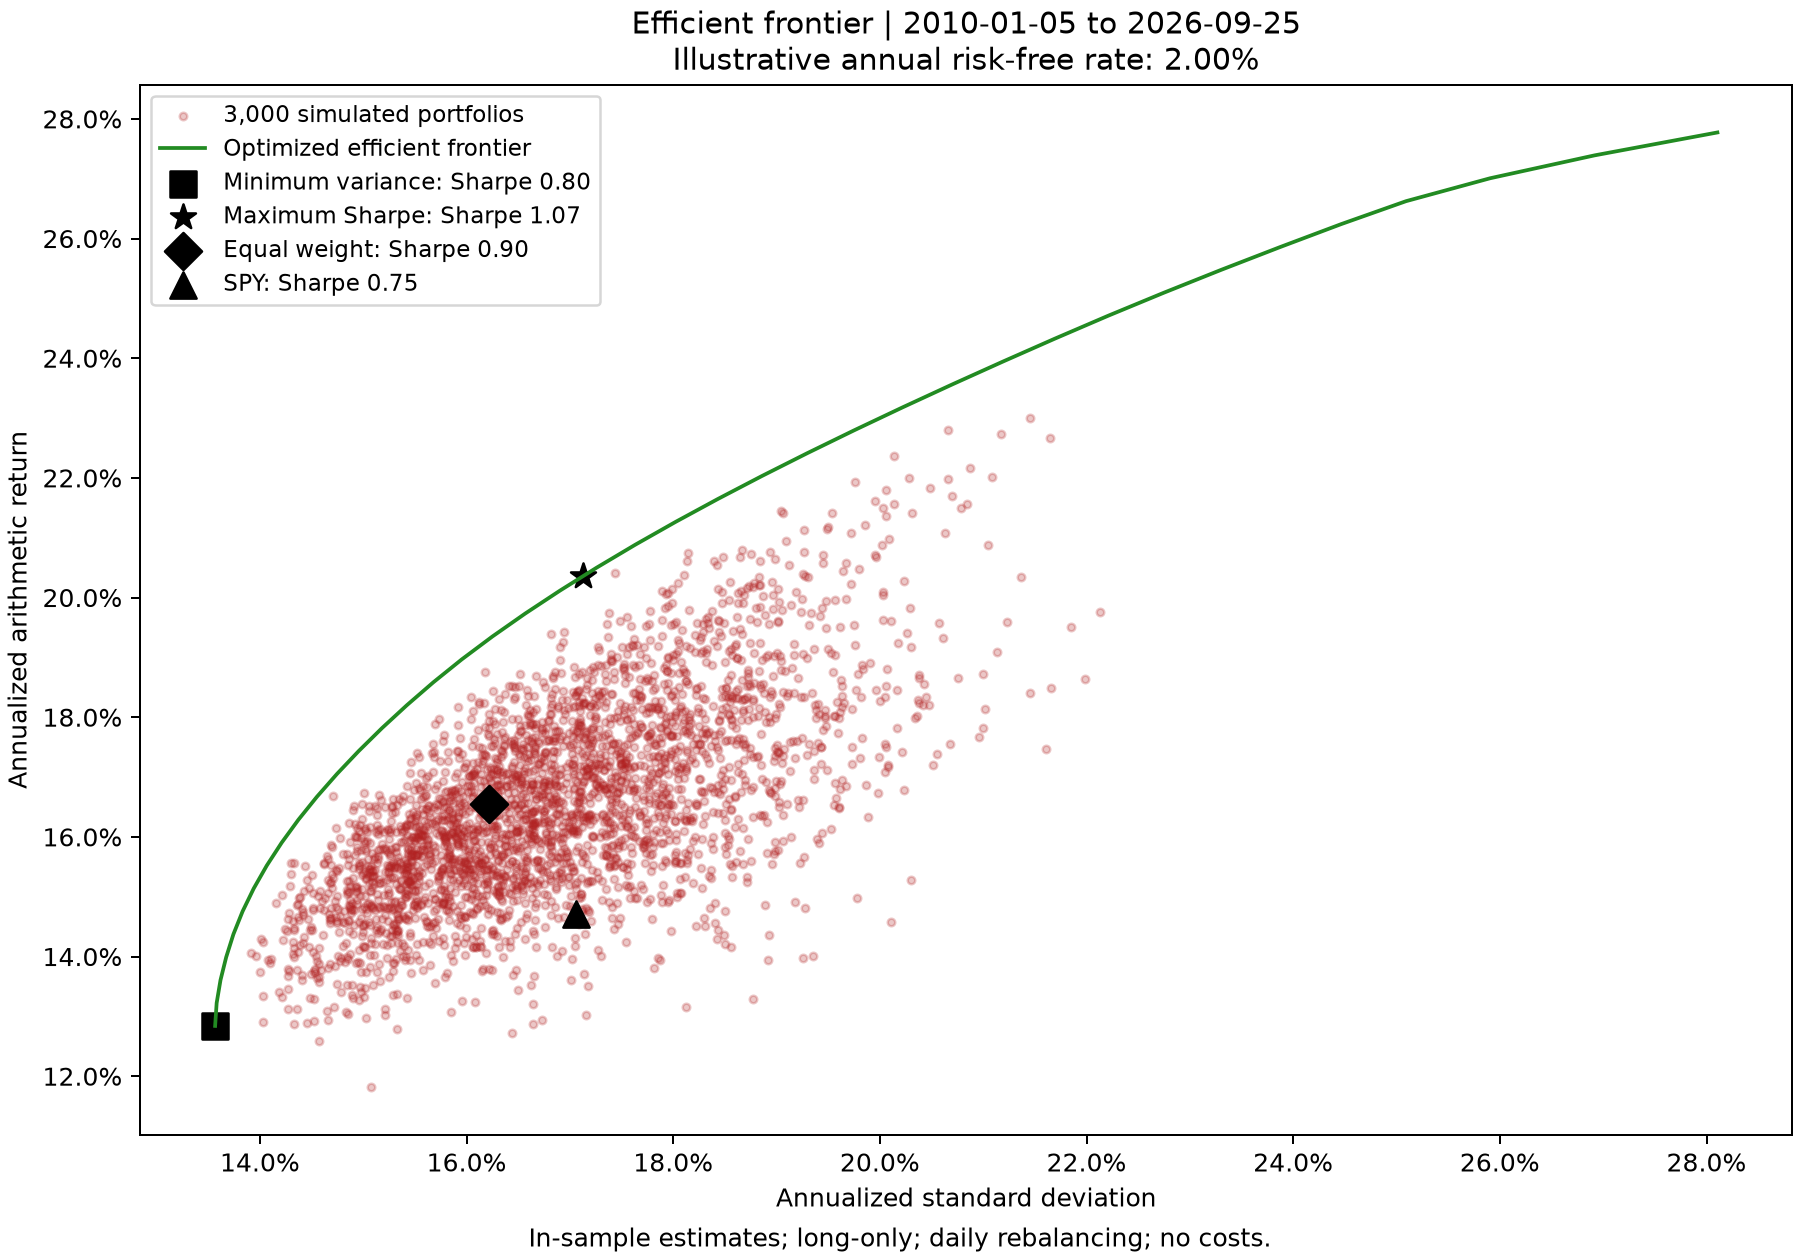
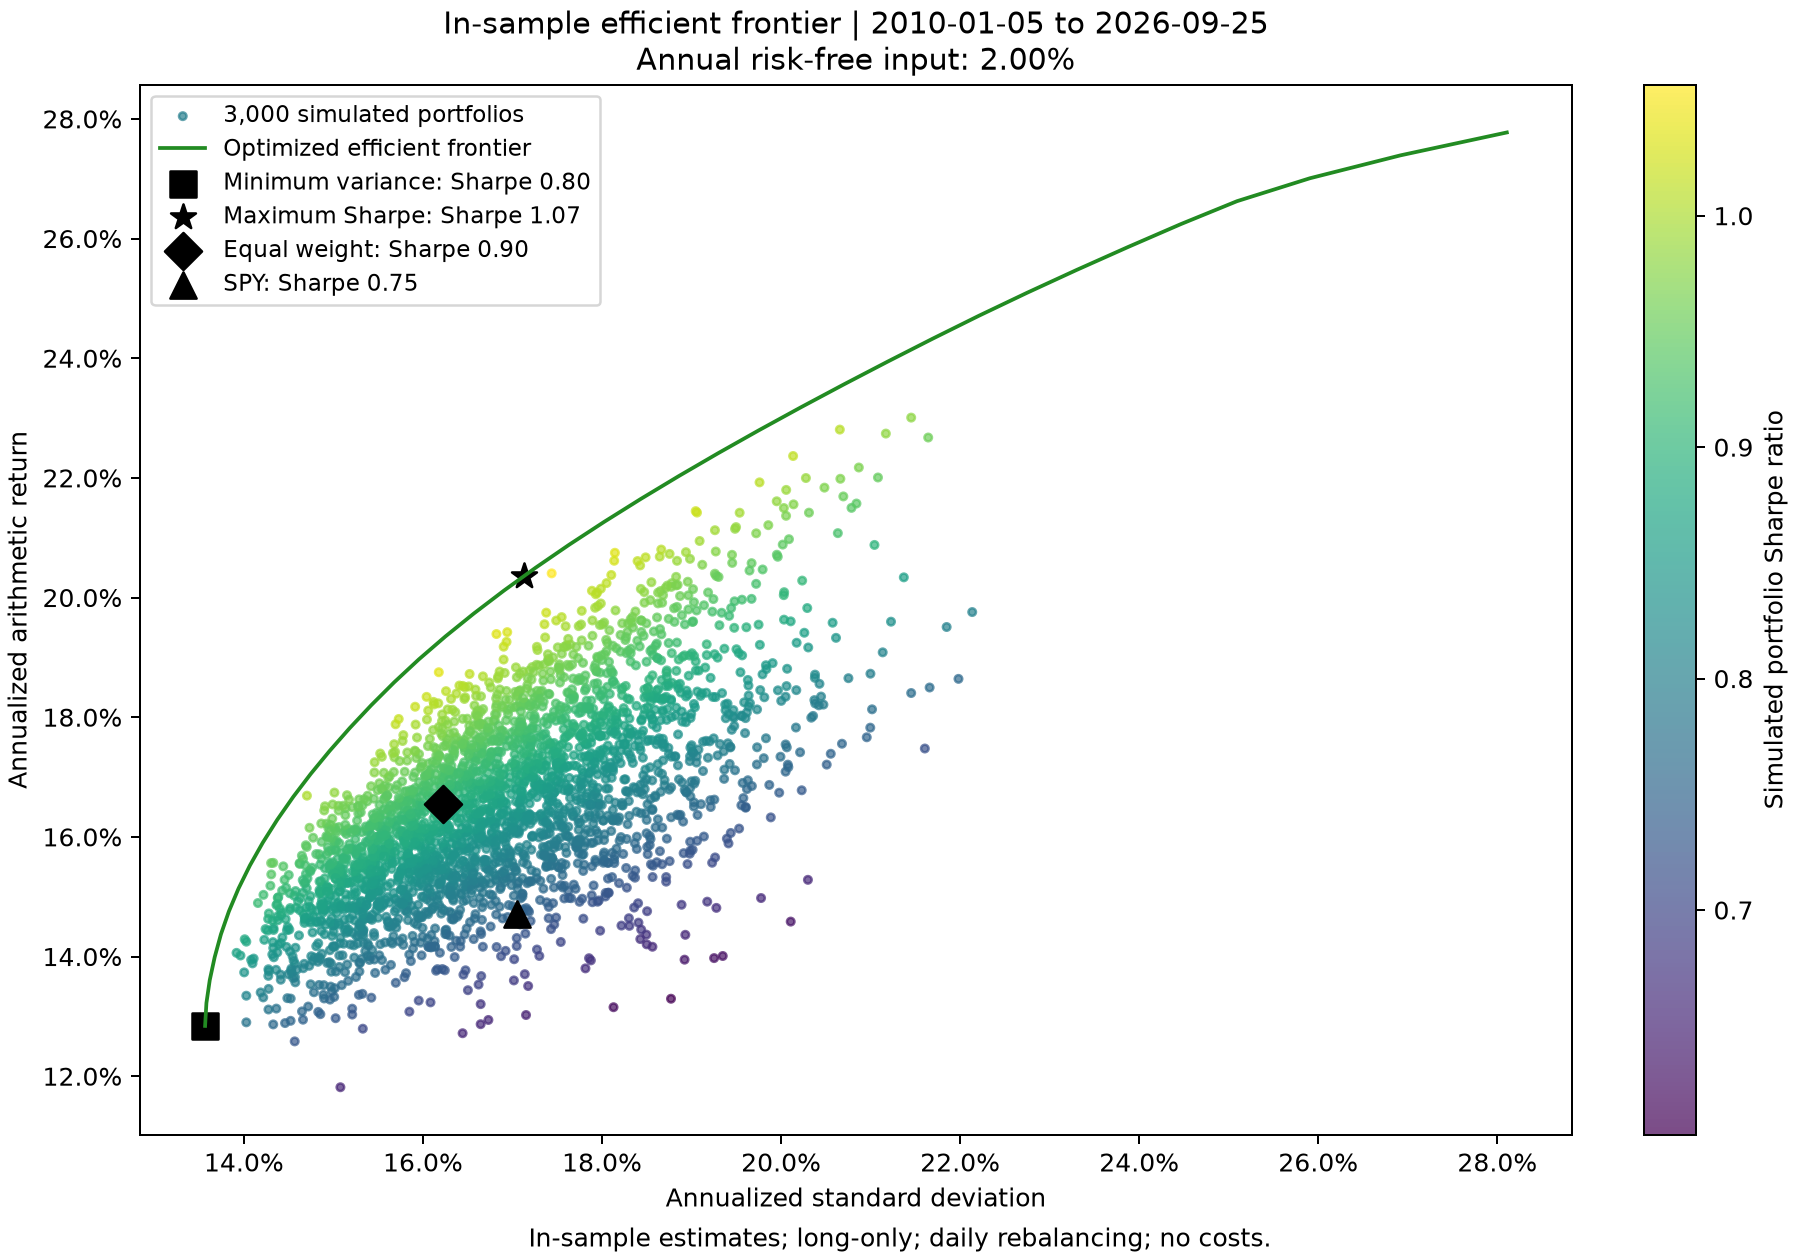
docs: explain Phase 2 diversification with a visual report

diff --git a/docs/phase2_report.md b/docs/phase2_report.md
@@ -1,0 +1,108 @@
+# Phase 2: diversification helps, but 1.07 is an in-sample estimate
+
+## Summary
+
+- The maximum estimated Sharpe is **1.073**, compared with **0.898** for equal
+  weights and **0.747** for SPY. These are historical estimates, not forecasts.
+- Only **2 of 45** asset pairs have correlation above 0.80. All pairs are positive,
+  but diversification still helps: negative correlation is not required.
+- The optimized portfolio already holds almost no index ETFs. Their inclusion
+  alone does not explain the 1.07 result.
+
+Scope: the ten approved raw assets, 4,207 daily returns from January 5, 2010 to
+September 25, 2026, and the explicitly selected **2% illustrative annual risk-free
+rate**. No new observations or strategies were added. Updated October 24, 2026.
+
+## 1. Read the frontier as a risk–return trade-off
+
+![In-sample efficient frontier, with simulated portfolios colored by Sharpe ratio](sharpe_ratio.png)
+
+Each dot is one of 3,000 allocations. Color measures Sharpe; the axes measure
+annualized standard deviation and arithmetic expected return. Black marker
+shapes distinguish the comparison portfolios. The green line is the optimized
+upper frontier, not a line joining the best random dots.
+
+| Portfolio | Arithmetic return/year | Volatility/year | Sharpe |
+|---|---:|---:|---:|
+| Minimum variance | 12.84% | 13.57% | 0.801 |
+| Maximum Sharpe | 20.36% | 17.13% | 1.073 |
+| Equal weight | 16.55% | 16.22% | 0.898 |
+| SPY | 14.72% | 17.05% | 0.747 |
+
+Within this mean–variance model, a risk-averse investor prefers the efficient
+frontier: least variance for a target return, or highest return for a given risk.
+The chosen point depends on risk tolerance. The maximum-Sharpe point is not the
+minimum-risk point. [CFA Institute: Portfolio Risk and Return](https://www.cfainstitute.org/insights/professional-learning/refresher-readings/2026/portfolio-risk-return-part-1)
+
+## 2. Correlation limits diversification; it does not eliminate it
+
+![Daily raw-asset return correlations for the approved historical sample](asset_correlation.png)
+
+| Correlation check | Result |
+|---|---:|
+| Highest pair: SPY / QQQ | 0.930 |
+| Second-highest pair: SPY / IWM | 0.882 |
+| Lowest pair: XOM / WMT | 0.213 |
+| Median of the 45 distinct pairs | 0.390 |
+| Pairs above 0.80 | 2 / 45 |
+| Negative pairs | 0 / 45 |
+
+The 0.80 level is a descriptive flag, not an exclusion rule. Shared equity
+exposure may explain the strongly correlated ETF pairs; this table does not
+establish causality. Lower correlations help all else equal, but returns,
+individual volatilities, and portfolio weights also matter.
+
+For the maximum-Sharpe weights, the weighted average individual volatility is
+23.89%, while portfolio volatility is 17.13%. The ratio is **1.395**. The former
+is also the hypothetical portfolio volatility if every pair had correlation +1,
+with weights and individual volatilities unchanged. This is a mathematical
+comparison, not another observed portfolio or a forecast.
+
+Perfectly **positively** correlated assets offer no correlation-based
+diversification benefit. That does not mean they can never be held together:
+identical return streams can share a weight without changing portfolio results.
+
+## 3. The optimizer already avoids most ETF overlap
+
+| Asset | Maximum-Sharpe weight |
+|---|---:|
+| AAPL | 36.29% |
+| JNJ | 23.36% |
+| WMT | 23.32% |
+| CAT | 15.81% |
+| JPM | 1.06% |
+| QQQ | 0.17% |
+| SPY | 0.00% |
+| IWM | 0.00% |
+| XOM | 0.00% |
+| PG | 0.00% |
+
+Weights are rounded; tiny numerical residuals appear as zero. The top three
+allocations total **82.96%**, so the portfolio remains concentrated.
+
+Because zero weights are allowed, removing an asset cannot increase the
+theoretical best in-sample Sharpe: it only narrows the available choices. The
+observed maximum depends on the whole set of estimated returns and covariances,
+the sample, the risk-free input, and the long-only constraints. Calling 1.07
+"good but not great" without a matched comparison is not a reliable conclusion.
+
+## What was corrected—and what was not
+
+The chart now directly encodes Sharpe and labels the fit as in-sample. The report
+adds measured correlations, allocations, and the qualifications above. The
+optimizer, tickers, prices, and strategies are unchanged; **1.073 remains the
+estimated maximum**, not a promised improvement or a universal ceiling.
+
+All estimates use the same dates, 252-day annualization, and sample covariance.
+The annual risk-free input is converted to its compounded daily equivalent for
+Sharpe. Arithmetic return is not CAGR. Weights are long-only, sum to one, and are
+rebalanced daily. Costs are excluded. Fitting and evaluation use the same history;
+there is no independent future-performance test in this Phase 2 report.
+
+Evidence comes from the approved local data through the existing
+[runner](../run.py), [portfolio calculations](../portfolio.py), and
+[shared metrics](../metrics.py). The inputs retain the provider-adjustment and
+repaired-observation caveats in [Existing data](../README.md#existing-data).
+Use the existing [Phase 2 command](../README.md#run-the-analysis) to calculate
+the charts in memory. These two PNGs were saved explicitly for this report;
+ordinary analysis still does not download or save data.

diff --git a/README.md b/README.md
@@ -137,10 +137,15 @@ claim diversification across different strategies when only one is supplied.
 
 ![Efficient frontier with Sharpe ratios for minimum variance, maximum Sharpe, equal weight, and SPY portfolios](docs/sharpe_ratio.png)
 
-Saved on October 22, 2026 using the approved January 5, 2010–September 25, 2026
-return sample and an illustrative 2% annual risk-free rate. Sharpe ratios appear
-in the legend; the axes show risk and return. This is a saved snapshot, updated
-only on request, not a live chart.
+Updated on October 24, 2026 using the approved January 5, 2010–September 25, 2026
+return sample and an illustrative 2% annual risk-free rate. Point colors show
+simulated portfolio Sharpe ratios; black markers identify the four comparisons.
+The axes show risk and return, not Sharpe. This is a saved snapshot, updated only
+on request, not a live chart.
+
+Read the [Phase 2 visual report](docs/phase2_report.md) for the correlation
+heatmap, allocation weights, and interpretation. The maximum remains about 1.07
+for this sample and model; the graph correction does not improve investment returns.
 
 ### Run the analysis
 
@@ -193,8 +198,9 @@ U.S. equity exposure is a plausible explanation for the first pair; different
 business drivers may help explain the second. These are interpretations, not
 causal findings, and the correlations can change with the evaluation period.
 
-Each red dot on the frontier chart is one simulated portfolio. Horizontal position
-is annualized standard deviation; vertical position is arithmetic expected return.
+Each colored dot on the frontier chart is one simulated portfolio; its color shows
+Sharpe. Horizontal position is annualized standard deviation; vertical position is
+arithmetic expected return.
 The green line comes from constrained optimization, not from joining random dots.
 Its targets begin at the minimum-variance portfolio, keeping only the upper branch.
 The four black marker shapes and their legend entries identify:
